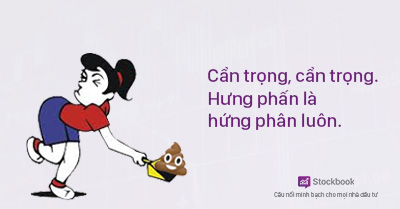
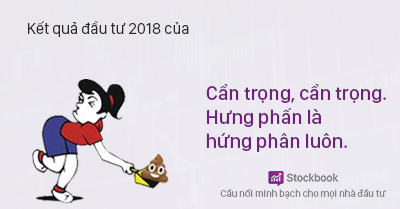
Add images

diff --git a/server/controllers/index.js b/server/controllers/index.js
@@ -16,8 +16,8 @@ router.post('/generate', function (req, res) {
 	let userID = req.body.userid;
 	let fileName = imagesPath + 'results/' + userID + ".jpg";
 	let name = req.body.name;
-	let text = '2018 ' + bodau(name) + ' dau tu nhu the nao?';
-	let randomNumber = Math.floor(Math.random() * Math.floor(11)) + 1;
+	let text = bodau(name);
+	let randomNumber = Math.floor(Math.random() * Math.floor(27)) + 1;
 	console.log(name)
 	if (fs.existsSync(imagesPath + 'results/' + userID + '.jpg')) {
 		console.log('File exists')
@@ -31,7 +31,7 @@ router.post('/generate', function (req, res) {
 			return Jimp.loadFont(Jimp.FONT_SANS_16_BLACK);
 		})
 		.then(function (font) {
-			loadedImage.print(font, 10, 10, text)
+			loadedImage.print(font, 195, 20, text)
 					   .write(fileName);
 			console.log('Generate image file ....', randomNumber)
 			res.send('Success!');
